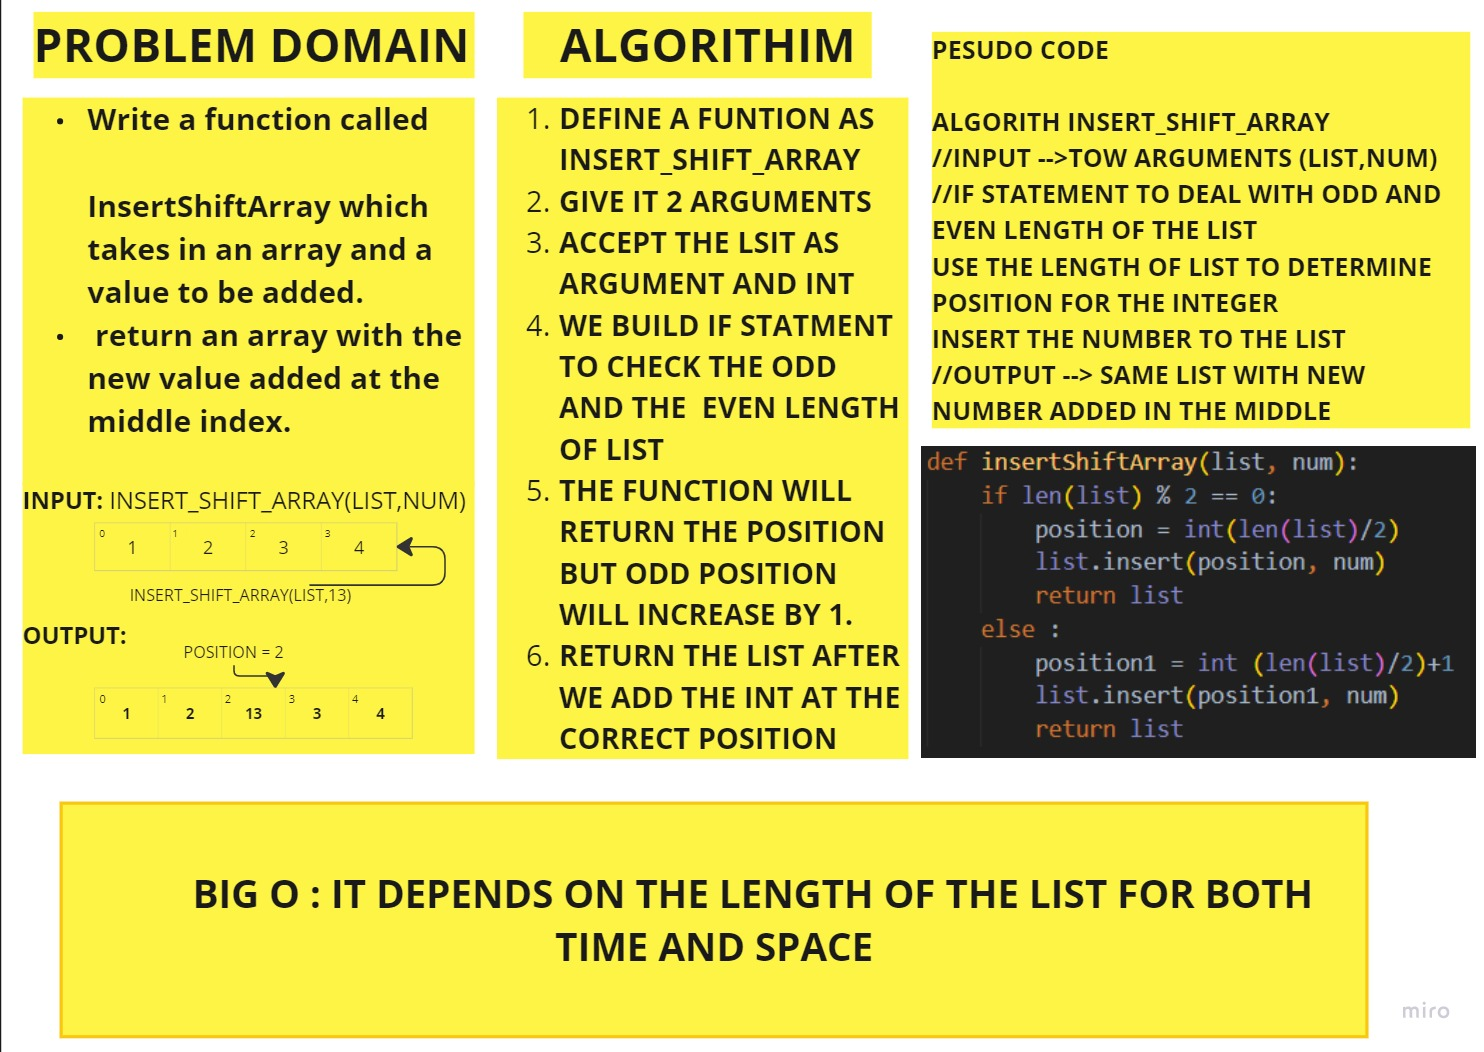
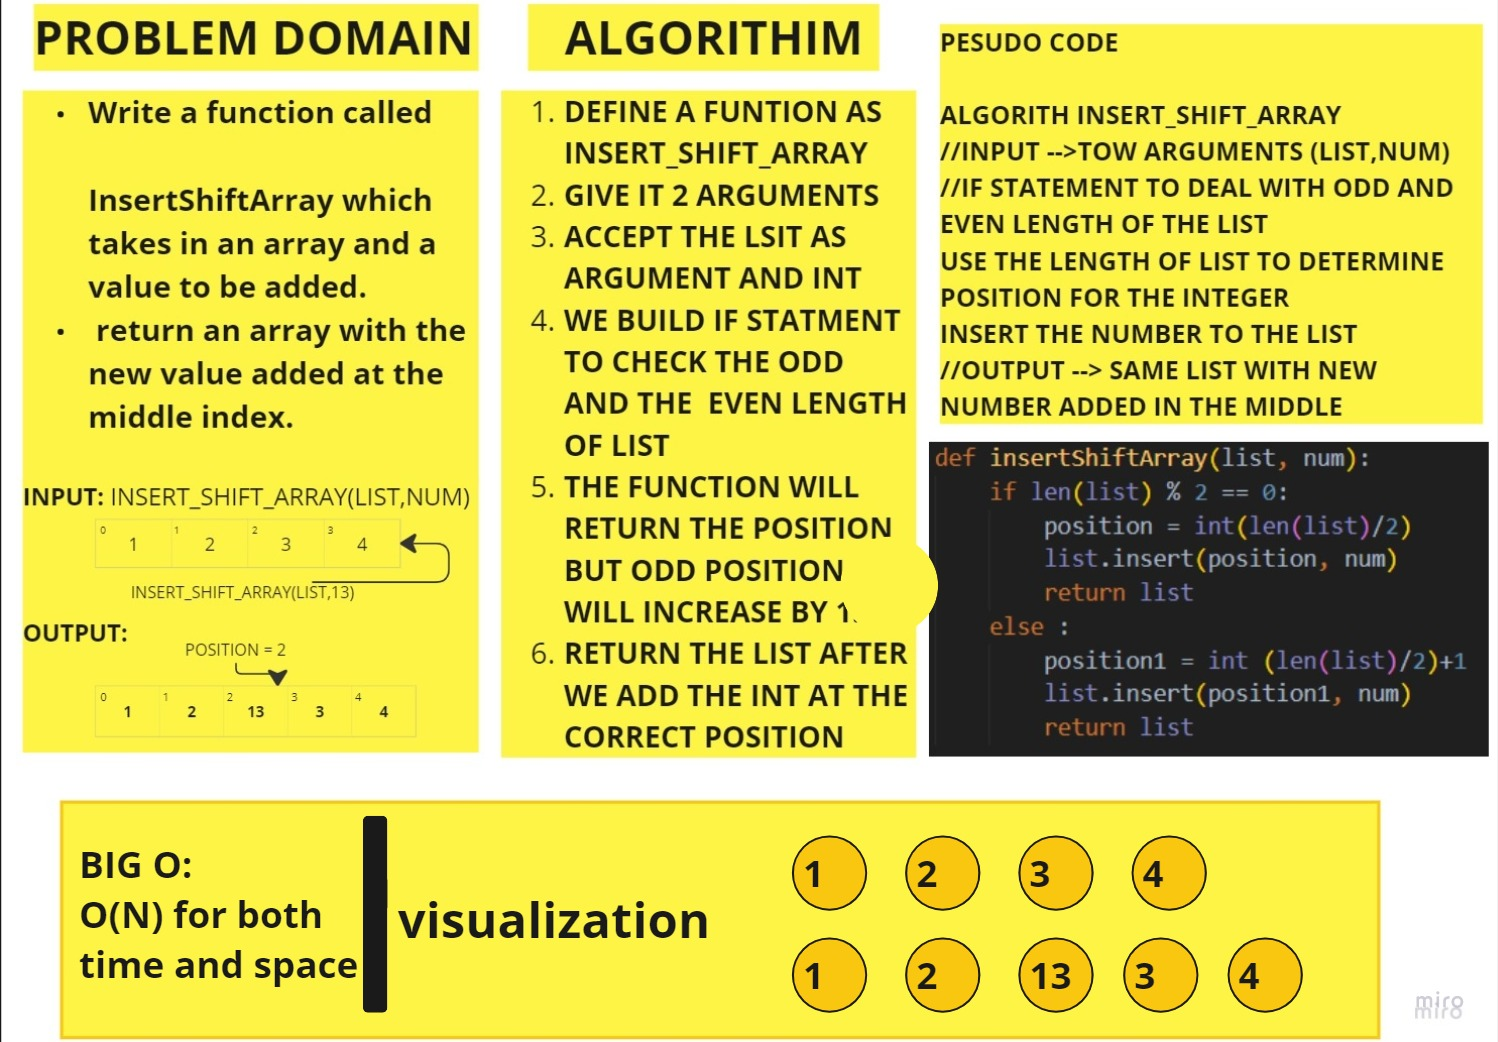
DONE

diff --git a/array-insert-shift/README.md b/array-insert-shift/README.md
@@ -7,8 +7,8 @@ __Write a function called insertShiftArray which takes in an array and a value t
 
 ## Approach & Efficiency
  - I use the if statement to determine the length of list the position I need to add this interger in the same list
-  - I keep it simple as possible to make the Big O for both time complexty and data space not execed O(N).
-
+  - __I keep it simple as possible to make the Big O for both time complexty and data space not execed O(N).
+__
 ## Solution
 __python insert_shift_array.py__
 
